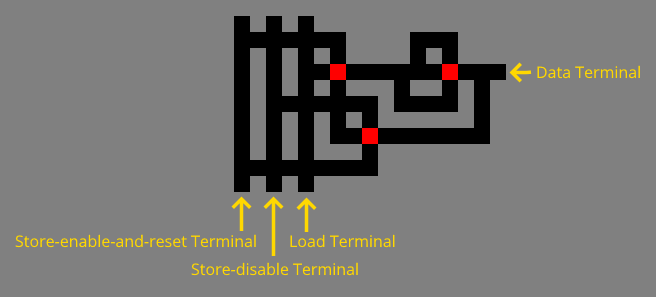
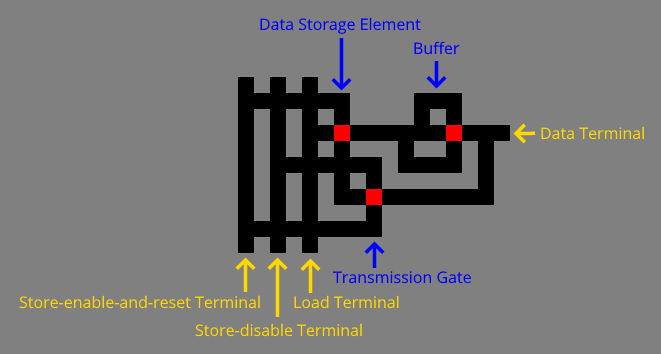
web

Changed region(s): [[0.0305, 0.0303, 0.9756, 0.9697]]

diff --git a/web/index.html b/web/index.html
@@ -120,7 +120,7 @@ MathJax = {
 <p>The simulator inspects the tiles immediately left, in front of, and right of the mouse. It uses the table below, where <span class="mono">1</span> indicates a wall (a gray tile) and <span class="mono">0</span> indicates a passage (a nongray tile), to abide by the right-hand rule modified to ignore four-way intersections.</p>
 
 <table class="borderless2">
-<tr><th class="borderless">Tiles</th><th class="borderless">Action</th></tr>
+<tr><th class="borderless">Walls</th><th class="borderless">Action</th></tr>
 <tr><td class="mono centered">000</td><td class="borderless">None (four-way intersection)</td></tr>  
 <tr><td class="mono centered">001</td><td class="borderless">None (right branch ahead)</td></tr>
 <tr><td class="mono centered">010</td><td class="borderless">Turn 90&deg; clockwise (take right branch)</td></tr>
@@ -176,35 +176,35 @@ MathJax = {
 
 <p><img class="centered" alt="inverter" id="inverter.gif" src="inverter.gif"></p>
 
-<h2 id="and-gate"><a class="header" href="#and-gate">AND</a></h2>
+<h2 id="and-gate"><a class="header" href="#and-gate">AND Gate</a></h2>
 
 <p><img class="centered" alt="and" id="and.gif" src="and.gif"></p>
 
-<h2 id="or-gate"><a class="header" href="#or-gate">OR</a></h2>
+<h2 id="or-gate"><a class="header" href="#or-gate">OR Gate</a></h2>
 
 <p><img class="centered" alt="or" id="or.gif" src="or.gif"></p>
 
-<h2 id="nand-gate"><a class="header" href="#nand-gate">NAND</a></h2>
+<h2 id="nand-gate"><a class="header" href="#nand-gate">NAND Gate</a></h2>
 
 <p><img class="centered" alt="nand" id="nand.gif" src="nand.gif"></p>
 
-<h2 id="nor-gate"><a class="header" href="#nor-gate">NOR</a></h2>
+<h2 id="nor-gate"><a class="header" href="#nor-gate">NOR Gate</a></h2>
 
 <p><img class="centered" alt="nor" id="nor.gif" src="nor.gif"></p>
 
-<h2 id="xor-gate"><a class="header" href="#xor-gate">XOR</a></h2>
+<h2 id="xor-gate"><a class="header" href="#xor-gate">XOR Gate</a></h2>
 
 <p>The XOR gate employs combinational logic. It consists of a NAND gate and an OR gate whose outputs feed into an AND gate. The XOR’s express-and-reset terminal directs the mouse to the NAND and OR gate’s express-and-reset terminals prior to the AND’s express-and-reset terminal, ensuring the logical operations are performed in the correct sequence:</p>
 
 <p><img class="centered" alt="xor" id="xor.gif" src="xor.gif"></p>
 
-<h2 id="xnor-gate"><a class="header" href="#xnor-gate">XNOR</a></h2>
+<h2 id="xnor-gate"><a class="header" href="#xnor-gate">XNOR Gate</a></h2>
 
 <p>Like XOR, XNOR employs combinational logic. It consists of a NOR gate and an AND gate whose outputs feed into an OR gate. As with XOR, XNOR’s express-and-reset terminal directs the mouse to evaluate the logical operations in the proper order:</p>
 
 <p><img class="centered" alt="xnor" id="xnor.gif" src="xnor.gif"></p>
 
-<h2 id="transmission-gate"><a class="header" href="#transmission-gate">Transmission</a></h2>
+<h2 id="transmission-gate"><a class="header" href="#transmission-gate">Transmission Gate</a></h2>
 
 <p>A single red or green tile can function as a transmission gate:</p>
 
@@ -229,10 +229,115 @@ MathJax = {
 
 <h1 id="sequential-logic"><a class="header" href="#sequential-logic">Sequential Logic</a></h1>
 
-<p>A register in Turing’s maze is a memory storage circuit with a data terminal and three control terminals:</p>
+<p>As shown below, a 1-bit register combines a data storage element, a transmission gate, and a buffer. It provides store and load access through a single data terminal. The store-enable-and-reset terminal turns the transmission gate on, connecting the data terminal to the data storage element, and it resets the data storage element to red. The store-disable terminal turns the transmission gate off, disconnecting the data terminal from the data storage element. The load terminal expresses the data storage element to the data terminal through the buffer.</p>
 
 <p><img class="centered" alt="register" id="register.png" src="register.png"></p>
 
+<p>The Mandelbrot set circuit uses 16-bit registers, where each data terminal connects to the line of a bus shared by other registers and devices:</p>
+
+<p><img class="centered" alt="register-16" id="register-16.png" src="register-16.png"></p>
+
+<p>To load a value from the register, the mouse visits the load terminal. It expresses the data storage elements to the bus.</p>
+
+<p>To store a value in the register:</p>
+
+<ol>
+<li>The mouse visits the store-enable-and-reset terminal. It connects the data storage elements to the bus, and it reverts them to red.</li>
+
+<li>The mouse expresses a value to the bus from some other register or device. This causes the mouse to enter some or all this register’s data terminals, changing data storage elements to green.</li>
+
+<li>The mouse visits the store-disable terminal, disconnecting the data storage elements from the bus.</li>
+</ol>
+
+<p>The buffers prevent assertions of the shared bus lines from leaking to the load terminal through green data storage elements.</p>
+
+<p>The register load and register store steps described above repeatedly appear in the Mandelbrot set circuit. For example, to subtract two registers, the mouse visits the control lines of the registers and a 16-bit adder-subtractor in a particular sequence:</p>
+
+<ol>
+<li><span class="adder-subtractor">adder-subtractor</span> &ndash; enable subtraction</li> 
+
+<li><span class="adder-subtractor">adder-subtractor</span> &ndash; enable minuend store</li> 
+
+<li><span class="minuend">minuend register</span> &ndash; load</li> 
+
+<li><span class="adder-subtractor">adder-subtractor</span> &ndash; disable minuend store</li> 
+
+<li><span class="adder-subtractor">adder-subtractor</span> &ndash; enable subtrahend store</li> 
+
+<li><span class="subtrahend">subtrahend register</span> &ndash; load</li> 
+
+<li><span class="adder-subtractor">adder-subtractor</span> &ndash; disable subtrahend store</li> 
+
+<li><span class="difference">difference register</span> &ndash; enable store and reset</li> 
+
+<li><span class="adder-subtractor">adder-subtractor</span> &ndash; subtract and reset</li> 
+
+<li><span class="difference">difference register</span> &ndash; disable store</li>
+</ol>
+
+<p>There are no specific minuend, subtrahend, and difference registers. The names refer to any registers playing those roles during a subtraction.</p>
+
+<p>The sequence above is an example of a <a href="https://en.wikipedia.org/wiki/Microcode" target="_blank">microprogram</a>. The Mandelbrot set circuit encodes microprograms like this:</p>
+
+<p><img class="centered" alt="microprogram" id="microprogram.png" src="microprogram.png"></p>
+
+<p>The microprogram runs bottom-up. The mouse asserts control lines through buffers to avoid sharing conflicts.</p>
+
+<p>For branching, a microprogram uses a circuit of the form:</p>
+
+<p><img class="centered" alt="branching" id="branching.png" src="branching.png"></p>
+
+<p>After entering from the southern terminal, the mouse turns the transmission gate on, it resets the data storage element to red, and it visits a terminal that evaluates the branch condition. The mouse expresses the branch condition result through the transmission gate to the data storage element. Upon returning, the mouse turns the transmission gate off, and then it attempts to traverse the data storage element. If the stored branch condition is logic one, the mouse exits the north-east terminal. Otherwise, it exits the north-west terminal.</p>
+
+<p>If a branch loops back to an earlier part of a microprogram, a diode installed along the return pathway ensures the mouse traverses the loop in the correct direction:</p>
+
+<p><img class="centered" alt="diode" id="diode.gif" src="diode.gif"></p>
+
+
+<h1 id="software"><a class="header" href="#software">Software</a></h1>
+ 
+<p>This project includes a simulator and an emulator written in Java. They load an image of a Turing’s maze, where each pixel represents a tile with these 24-bit RGB values:</p>
+
+<table class="borderless">
+<tr><th class="borderless">Tile</th><th class="borderless">RGB</th></tr>
+<tr><td class="borderless">Black</td><td class="mono">000000</td></tr>
+<tr><td class="borderless">Gray</td><td class="mono">808080</td></tr>
+<tr><td class="borderless">Red</td><td class="mono">FF0000</td></tr>
+<tr><td class="borderless">Green</td><td class="mono">00FF00</td></tr>
+</table>
+
+<p>The simulator runs the mouse from the entrance to the exit, and it saves an image of the final maze state.</p>
+
+<p>The emulator does the same, but it executes much faster. Before it runs the mouse from the entrance to the exit, it positions and orients the mouse on each red and green tile, and in each cardinal direction. It runs a simulation for those configurations that obtains a list of tiles the mouse turns red and a list of the tiles the mouse turns green until the mouse arrives at a red or green tile facing east or west.</p>
+
+<p>At run-time, the emulator uses that precomputed table to jump the mouse from a source red or green tile, while facing east or west, to a destination red or green tile, again facing east or west, while performing the expected tile color changes. If the mouse lands on a red tile, the emulator reverses its direction.</p>
+
+<p>To download the source code and the compiled binary, clone <a href="https://github.com/meatfighter/turings-maze" target="_blank">this repository</a>.</p>
+
+<p>To run the simulator, navigate to the local repository directory, and execute the following command.</p> 
+
+<p><span class="command">java <span class="nowrap">-cp target/turings-maze.jar</span> turingsmaze.Simulator <span class="nowrap">-i [ source image ]</span> <span class="nowrap">-o [ destination image ] <a class="copy" href="#" onclick="event.preventDefault(); navigator.clipboard.writeText('java -cp target/turings-maze.jar turingsmaze.Simulator -i [ source image ] -o [ destination image ]')">&#x2BBA;</a></span></span></p> 
+
+<p>To run the emulator, navigate to the local repository directory, and execute the following command.</p> 
+
+<p><span class="command">java <span class="nowrap">-cp target/turings-maze.jar</span> turingsmaze.Emulator <span class="nowrap">-i [ source image ]</span> <span class="nowrap">-o [ destination image ] <a class="copy" href="#" onclick="event.preventDefault(); navigator.clipboard.writeText('java -cp target/turings-maze.jar turingsmaze.Emulator -i [ source image ] -o [ destination image ]')">&#x2BBA;</a></span></span></p> 
+
+
+<h1 id="mandelbrot-set"><a class="header" href="#mandelbrot-set">Mandelbrot Set</a></h1>
+ 
+<p>After running for three hours on a 5&half;-year-old desktop PC, the emulator performed this transformation: </p>
+
+<p><img class="centered" alt="mandelbrot-transformation" id="mandelbrot-transformation.png" src="mandelbrot-transformation.png" usemap="#mandelbrot-map"></p>
+
+<map name="mandelbrot-map">
+<area shape="rect" coords="0,0,439,542" alt="mandelbrot-before" href="mandelbrot-before.html" target="_blank">
+<area shape="rect" coords="539,0,978,542" alt="mandelbrot-after" href="mandelbrot-after.html" target="_blank">
+</map>
+
+<p>Click on the images to view the full-resolution versions (10,149 &times; 12,540 pixels).
+
+<p>The maze contains circuits that compute the Mandelbrot set and a display that makes it visible:</p>    
+    
 <hr>
 <table class="copyright">
 <tr><td><p class="copyright">&copy; 2023 meatfighter.com<br>This content is licensed under <a href="http://creativecommons.org/licenses/by-sa/4.0/?ref=chooser-v1" target="_blank" rel="license noopener noreferrer" style="display:inline-block;">CC BY-SA 4.0<img style="height:22px!important;margin-left:3px;vertical-align:text-bottom;" src="https://mirrors.creativecommons.org/presskit/icons/cc.svg?ref=chooser-v1" alt="CC"><img style="height:22px!important;margin-left:3px;vertical-align:text-bottom;" src="https://mirrors.creativecommons.org/presskit/icons/by.svg?ref=chooser-v1" alt="BY"><img style="height:22px!important;margin-left:3px;vertical-align:text-bottom;" src="https://mirrors.creativecommons.org/presskit/icons/sa.svg?ref=chooser-v1" alt="SA"></a></p></td><td><p class="home"><a href="https://meatfighter.com">Home</a></p></td></tr>

diff --git a/web/mandelbrot-before.html b/web/mandelbrot-before.html
@@ -1,0 +1,28 @@
+<!DOCTYPE html>
+<html lang="en">
+
+<head>
+
+<meta http-equiv="Content-Type" content="text/html; charset=utf-8">
+<meta name="date" content="2023-07-23">
+<meta name="viewport" content="width=device-width, initial-scale=1.0">
+<meta name="theme-color" content="#808080">
+
+<link rel="manifest" href="manifest.json">
+<link rel="mask-icon" href="mask-icon.svg" color="#000000">
+<link rel="apple-touch-icon" href="apple-touch-icon.png">
+<link rel="icon" href="favicon.svg" type="image/svg+xml">
+<link rel="icon" href="favicon.ico" sizes="any" type="image/x-icon">
+<link rel="shortcut icon" href="favicon.ico" sizes="any" type="image/x-icon">
+
+<title>Turing's Maze - Mandelbrot Set Before</title>
+
+</head>
+
+<body style="background-color: #808080;">
+    
+<img style="image-rendering: pixelated;" alt="mandelbrot-before" id="mandelbrot-before.png" src="mandelbrot-before.png">
+    
+</body>
+
+</html>

diff --git a/web/mandelbrot-after.html b/web/mandelbrot-after.html
@@ -1,0 +1,28 @@
+<!DOCTYPE html>
+<html lang="en">
+
+<head>
+
+<meta http-equiv="Content-Type" content="text/html; charset=utf-8">
+<meta name="date" content="2023-07-23">
+<meta name="viewport" content="width=device-width, initial-scale=1.0">
+<meta name="theme-color" content="#808080">
+
+<link rel="manifest" href="manifest.json">
+<link rel="mask-icon" href="mask-icon.svg" color="#000000">
+<link rel="apple-touch-icon" href="apple-touch-icon.png">
+<link rel="icon" href="favicon.svg" type="image/svg+xml">
+<link rel="icon" href="favicon.ico" sizes="any" type="image/x-icon">
+<link rel="shortcut icon" href="favicon.ico" sizes="any" type="image/x-icon">
+
+<title>Turing's Maze - Mandelbrot Set After</title>
+
+</head>
+
+<body style="background-color: #808080;">
+    
+<img style="image-rendering: pixelated;" alt="mandelbrot-after" id="mandelbrot-after.png" src="mandelbrot-after.png">
+    
+</body>
+
+</html>

diff --git a/web/style.css b/web/style.css
@@ -91,6 +91,7 @@ a.header:hover {
 a.copy {
     font-family: 'Noto Sans Symbols 2', sans-serif;
     font-size: 18px;
+    font-weight: normal;
 }
 
 table.copyright {
@@ -250,4 +251,24 @@ span.label {
 span.symbols {
     font-family: 'Noto Sans Symbols 2', sans-serif;
     font-size: 15px;
+}
+
+span.adder-subtractor {
+    color: green;
+    font-weight: bold;
+}
+
+span.minuend {
+    color: red;
+    font-weight: bold;
+}
+
+span.subtrahend {
+    color: blue;
+    font-weight: bold;
+}
+
+span.difference {
+    color: purple;
+    font-weight: bold;
 }
